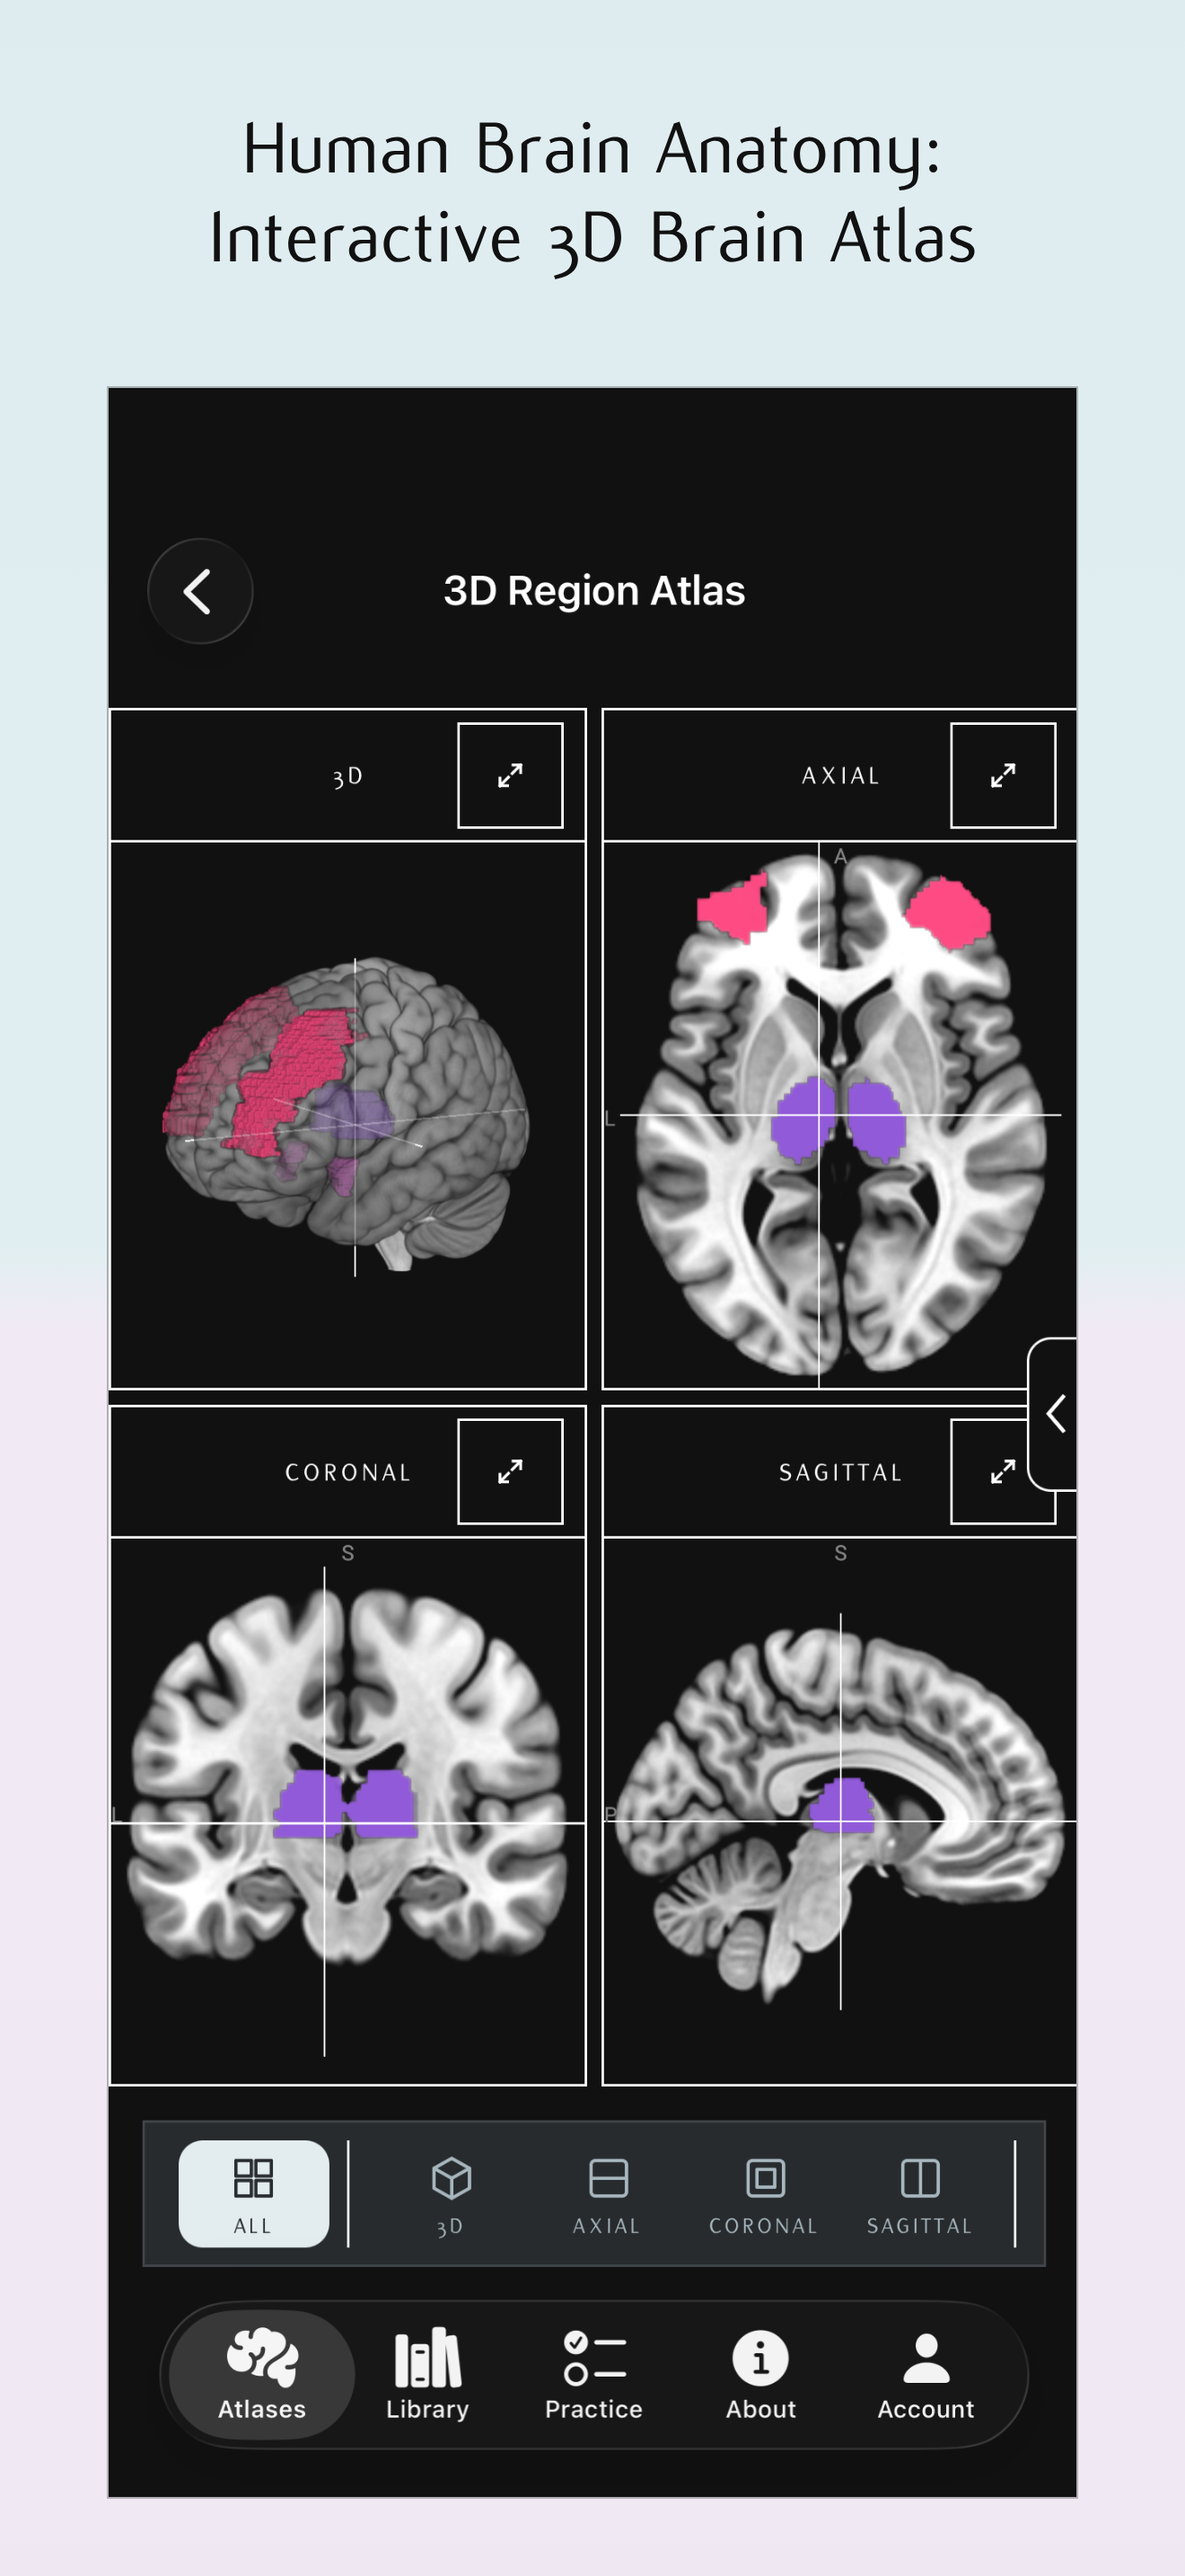
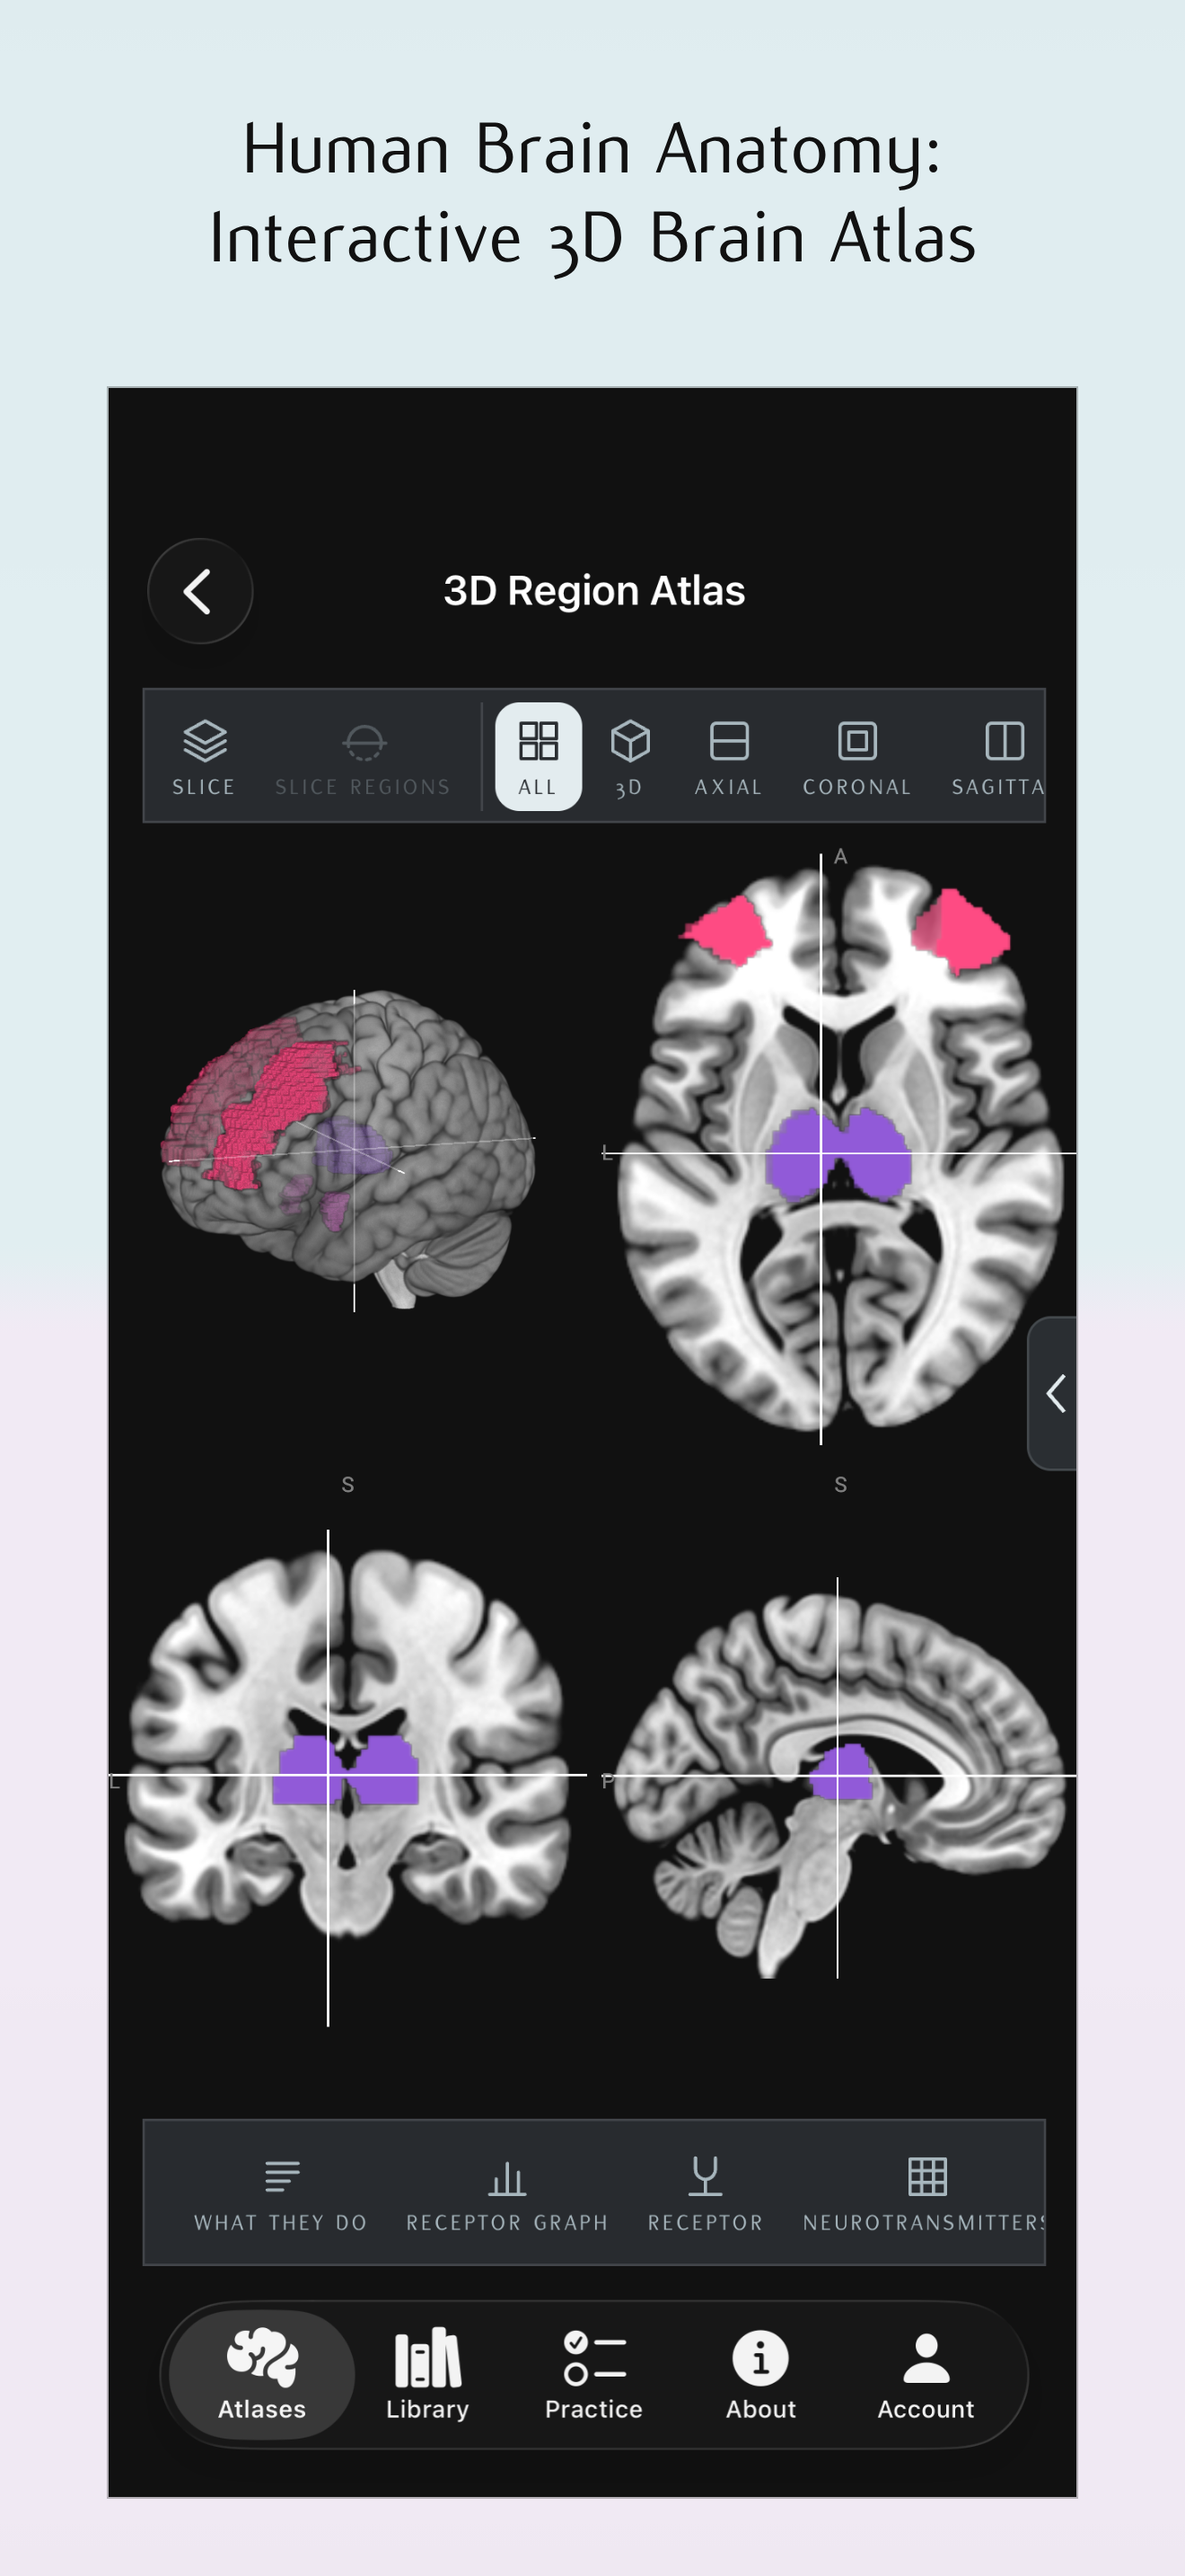
Render the iPhone's Human Brain Anatomy image from today's atlas instead of the 25 October capture
The iPhone's first App Store image is rendered from the 3D Region Atlas as the rest of the set is, where since v12.21 it had been the owner's own TestFlight capture of 25 October, whose four views still wore the bars of their own that v12.33 took off. The render hands the browser the iPhone's screen size, 402 by 874, since without it the pages read the 402 by 675 web view as a squat phone and the atlas drew its 3D view alone, and sets the crosshair in the left thalamus as the capture had it, so the sagittal view shows the medial wall rather than the bare midline. The second image, the What they do window, stays the capture at the owner's word, and the unused capture of the four views leaves the repository.

diff --git a/app/scripts/remake-store-images.js b/app/scripts/remake-store-images.js
@@ -94,7 +94,10 @@ const only = process.argv.slice(2);
    measure of a squat phone */
 const DEV = {
   ipad:    { w: 1210, h: 748, dpr: 2, pad: true,  top: 172, capture: [2420, 1668], families: ['ipad-13-land'] },
-  iphone:  { w: 402,  h: 675, dpr: 3, pad: false, top: 348, bottom: 2373, capture: [1206, 2622], families: ['iphone-6.3', 'iphone-6.9'] },
+  /* the iPhone's screen is given as well (v12.58): without it the browser's
+     screen is the web view, 402 by 675, which the pages read as a squat
+     phone, the closed Duo's shape, and the atlas drew its 3D view alone */
+  iphone:  { w: 402,  h: 675, dpr: 3, pad: false, screen: [402, 874], top: 348, bottom: 2373, capture: [1206, 2622], families: ['iphone-6.3', 'iphone-6.9'] },
   duo:     { w: 402,  h: 595, dpr: 3, pad: false, screen: [466, 678], column: 'outer', top: 249, capture: [1398, 2034], families: ['iphone-duo'] },
   duoOpen: { w: 887,  h: 583, dpr: 3, pad: true,  screen: [951, 669], column: 'inner', top: 258, capture: [2853, 2007], families: ['iphone-duo-land'] },
 };
@@ -178,6 +181,16 @@ const caudate = async (p, ctx, d) => {
   await p.waitForTimeout(3000);
   await probeTap(p, ctx, d ? d.dpr : 2);
 };
+/* the iPhone's atlas shot (v12.58): the crosshair a little off the midline,
+   in the left thalamus, as the owner's capture had it, so the sagittal view
+   shows the medial wall with the thalamus lit; on the midline itself, where
+   a bilateral pick's middle lies, the fissure leaves the cortex dim and the
+   view shows little but the brainstem and the cerebellum. A phone hides the
+   readouts, so no tap follows */
+const thalamus = async p => {
+  await p.evaluate(() => { MN_SEL.centreMm([-6, -18, 8]); });
+  await p.waitForTimeout(3000);
+};
 
 /* the twenty: the page and its state, the chrome strips, the image (after
    the size's name) and its statement */
@@ -203,13 +216,17 @@ const SHOTS = [
   /* the tractogram (v12.57, at the owner's word), as the owner's capture had it */
   { name: 'ipad-11', dev: 'ipad', theme: 'dark', url: 'tracts.html', ready: tractReady, store: { 'vn-tracts-last': TRACT_STATE },
     top: 'ipad-top-dark-atlases', out: '03-tractography.png', statement: 'Wiring System Tractogram' },
-  /* the first two on the iPhone are the owner's own captures from the
-     TestFlight build, 25 October 2026, taken whole: the atlas's four views
-     with the three regions lit, and the What they do window over them; the
-     one line a phone shows at the top, Best experienced on iPad, is painted
-     out in the page's black (cover: x, y, width, height in the capture) */
-  { name: 'iphone-01', dev: 'iphone', capture: 'iphone-capture-atlas', cover: [[440, 360, 326, 28]],
-    out: '02-atlas.png', statement: 'Human Brain Anatomy:|Interactive 3D Brain Atlas' },
+  /* the atlas's four views with the three regions lit, rendered from the
+     page since v12.58, at the owner's word: from v12.21 it was the owner's
+     own capture from the TestFlight build of 25 October 2026, whose views
+     still wore the bars of their own that v12.33 took off */
+  { name: 'iphone-01', dev: 'iphone', theme: 'dark', url: 'regions.html#sel=' + enc(SEL_PH), ready: atlasReady, setup: thalamus,
+    top: 'iphone-top-dark-3d-region-atlas', bottom: 'iphone-bottom-dark-atlases', out: '02-atlas.png', statement: 'Human Brain Anatomy:|Interactive 3D Brain Atlas' },
+  /* the second on the iPhone is the owner's own capture from that
+     TestFlight build, taken whole: the What they do window over the atlas's
+     four views; the one line a phone shows at the top, Best experienced on
+     iPad, is painted out in the page's black (cover: x, y, width, height in
+     the capture) */
   { name: 'iphone-02', dev: 'iphone', capture: 'iphone-capture-what-they-do', cover: [[440, 360, 326, 28]],
     out: '02-atlas-what-they-do.png', statement: 'Brain region functions explained' },
   { name: 'iphone-03', dev: 'iphone', theme: 'dark', url: 'regions.html#sel=' + enc(SEL_PH), ready: atlasReady, setup: chartD2,

diff --git a/CLAUDE.md b/CLAUDE.md
@@ -938,9 +938,14 @@ Read this first in every session. It is the handover; nothing else needs pasting
   (`duoTop()`); no Duo capture exists; `store-sell.js` covers no status bar on them (`BAR`);
   the second shot's statement is Brain region functions explained (`openPop` waits
   for a raised sheet to come to rest, which at 3× with software 3D takes longer than the slide); since v12.21 the
-  iPhone's first two are the owner's own captures from the TestFlight build of 25 October 2026, taken whole
-  (`capture`, kept in `app/store/chrome/` as `iphone-capture-atlas` and `iphone-capture-what-they-do`, with the
-  notice line painted out in the page's black by `cover`); the tenth, AI Connector, is `mcp.html` under About strips made from the
+  iPhone's second, What they do, is the owner's own capture from the TestFlight build of 25 October 2026, taken whole
+  (`capture`, kept in `app/store/chrome/` as `iphone-capture-what-they-do`, with the notice line painted out in the
+  page's black by `cover`; the first, the four views, was that build's capture too until v12.58, at the owner's word,
+  when it became a render like the rest, the capture's views still wearing the bars of their own that v12.33 took
+  off, and `iphone-capture-atlas` left the repository; the render gives the browser the iPhone's screen, `screen`
+  402 by 874 in `DEV`, since without it the pages read the 402 by 675 web view as a squat phone and the atlas drew
+  its 3D view alone, and sets the crosshair in the left thalamus, `thalamus`, so the sagittal view is not the bare
+  midline); the tenth, AI Connector, is `mcp.html` under About strips made from the
   others (`ipad-top-dark-about`, `iphone-top-dark-mcp-server` titled in Inter SemiBold, `iphone-bottom-dark-about` with
   Practice's pill moved under About), and the v12.14 notice line is hidden in every render. Each page rendered as the
   app shows it (the shell's marks and

diff --git a/docs/RELEASES.md b/docs/RELEASES.md
@@ -11,8 +11,13 @@ text below. Both can also be run from a clone on a machine that can push.
 
 Versions before v8.6 were released without a ledger and are not recorded.
 
+## v12.58 — 28 October 2026 — The iPhone's first App Store image rendered from today's atlas
+Commit · Render the iPhone's Human Brain Anatomy image from today's atlas instead of the 25 October capture
+
+The iPhone's first App Store image, Human Brain Anatomy, is rendered from today's 3D Region Atlas as the rest of the set is. It had been the owner's own capture from the TestFlight build of 25 October, whose four views still wore the bars of their own that v12.33 took off. The second image, the What they do window over the views, stays that capture at the owner's word. The render now tells the browser the iPhone's own screen size, without which the page took the web view for a squat phone and drew the 3D view alone, and stands the crosshair in the thalamus as the capture had it. Nothing on the website or in the apps changes with this release.
+
 ## v12.57 — 27 October 2026 — The App Store images remade, with the tractogram
-Commit · Remake the App Store images from today's pages and add the tractogram under Wiring System Tractogram
+Commit `053a1e3` · Remake the App Store images from today's pages and add the tractogram under Wiring System Tractogram
 
 The App Store images for the iPad, the iPhone and the iPhone Duo are remade from today's pages, and an eleventh joins them: Tractography as the owner's iPad capture had it, the brain nearly solid with one hemisphere's near side cut away and the wiring standing whole in the space, under the statement Wiring System Tractogram. App Store Connect takes ten images a size, so one of the eleven stays out of each upload. Nothing on the website or in the apps changes with this release.
 

diff --git a/app/store/LISTING.md b/app/store/LISTING.md
@@ -195,10 +195,13 @@ with the back button and the island on the iPad, the bar with the page's
 title and the tab bar on the iPhone), and set under its statement by
 `store-sell.js`. The Atlases tab in light mode is the app's own screen, so
 that image keeps its capture whole and only the atlas box's picture, the
-home page's light twin, is set in afresh. The iPhone's first two, the
-atlas's four views and the What they do window over them, are the owner's
-own captures from the TestFlight build of 25 October, taken whole with the
-Best experienced on iPad line painted out. The tenth, AI Connector, is the
+home page's light twin, is set in afresh. The iPhone's second, the What
+they do window over the atlas's four views, is the owner's own capture from
+the TestFlight build of 25 October, taken whole with the Best experienced
+on iPad line painted out; the first, the four views, was that build's
+capture too from v12.21, and since v12.58, at the owner's word, is rendered
+from the page like the rest, the capture's views still wearing the bars of
+their own that v12.33 took off. The tenth, AI Connector, is the
 MCP server's page as the About tab opens it; no capture had About lit on a
 pushed page, so its strips were made from the others (the iPad's island
 from the owner's capture of the About tab, the iPhone's tab bar with
